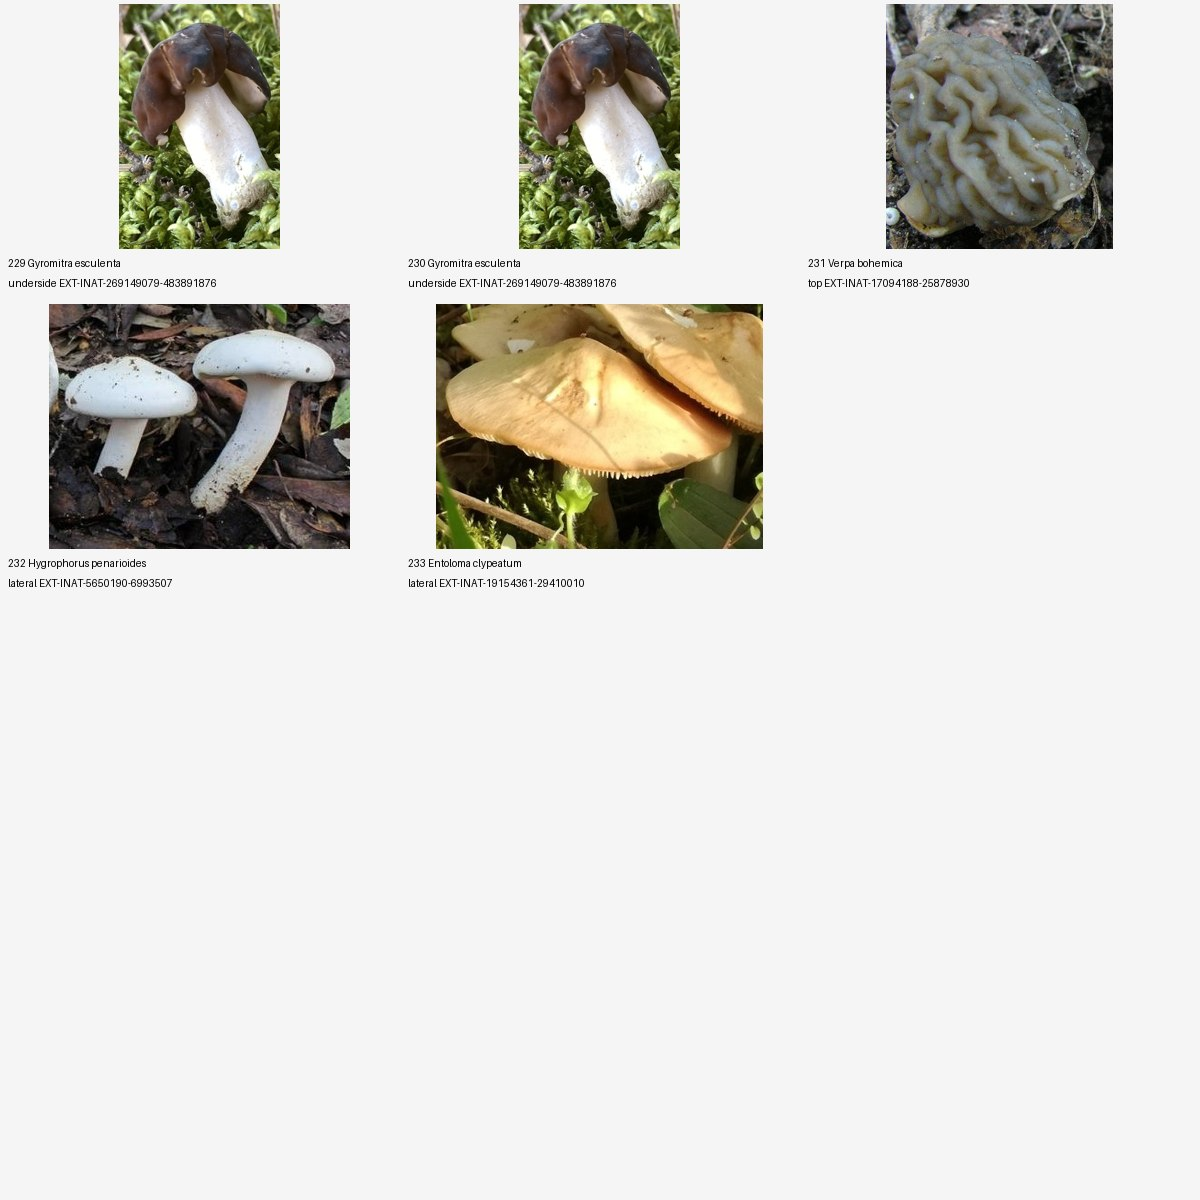
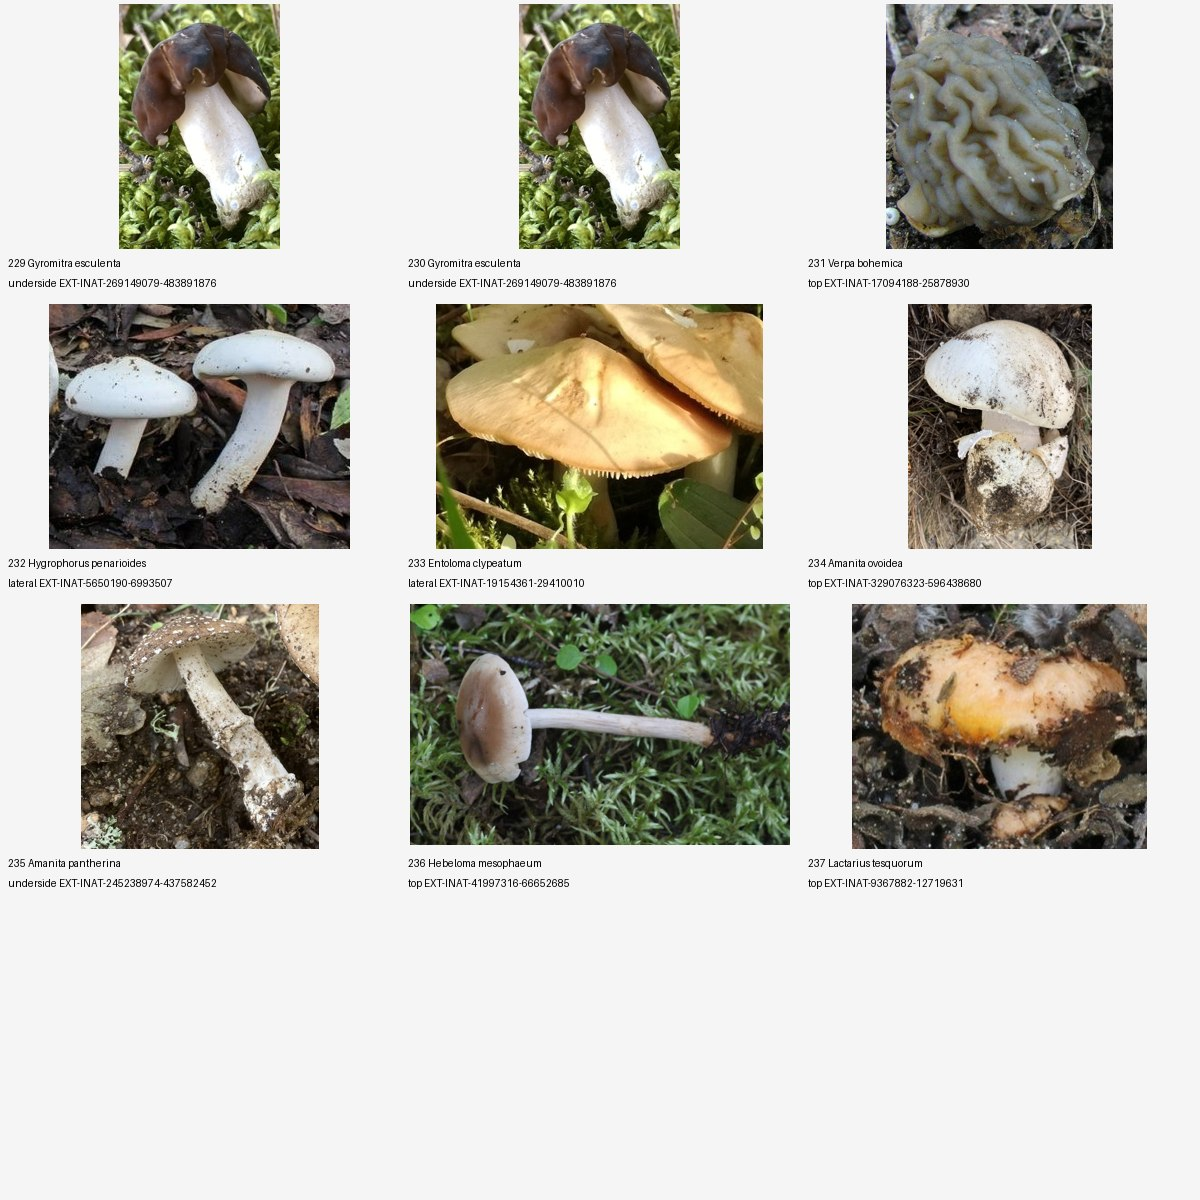
Materialize licensed external photographs and source evidence

Changed region(s): [[0.6783, 0.2467, 0.9558, 0.74], [0.3392, 0.4933, 0.6783, 0.74], [0.0, 0.4933, 0.2775, 0.74]]

diff --git a/src/data/reference-image-assets.ts b/src/data/reference-image-assets.ts
@@ -612,4 +612,8 @@ export const referenceImageAssets:Record<string,ImageSourcePropType>={
 "images/reference/external-verpa-top.jpg":require("../../web/public/images/reference/external-verpa-top.jpg"),
 "images/reference/external-hygrophorus-penarioides-lateral.jpg":require("../../web/public/images/reference/external-hygrophorus-penarioides-lateral.jpg"),
 "images/reference/external-entoloma-clypeatum-s-l-lateral.jpg":require("../../web/public/images/reference/external-entoloma-clypeatum-s-l-lateral.jpg"),
+"images/reference/external-amanita-ovoidea-top.jpg":require("../../web/public/images/reference/external-amanita-ovoidea-top.jpg"),
+"images/reference/external-amanita-pantherina-underside.jpg":require("../../web/public/images/reference/external-amanita-pantherina-underside.jpg"),
+"images/reference/external-hebeloma-top.jpg":require("../../web/public/images/reference/external-hebeloma-top.jpg"),
+"images/reference/external-lactarius-tesquorum-top.jpg":require("../../web/public/images/reference/external-lactarius-tesquorum-top.jpg"),
 };
